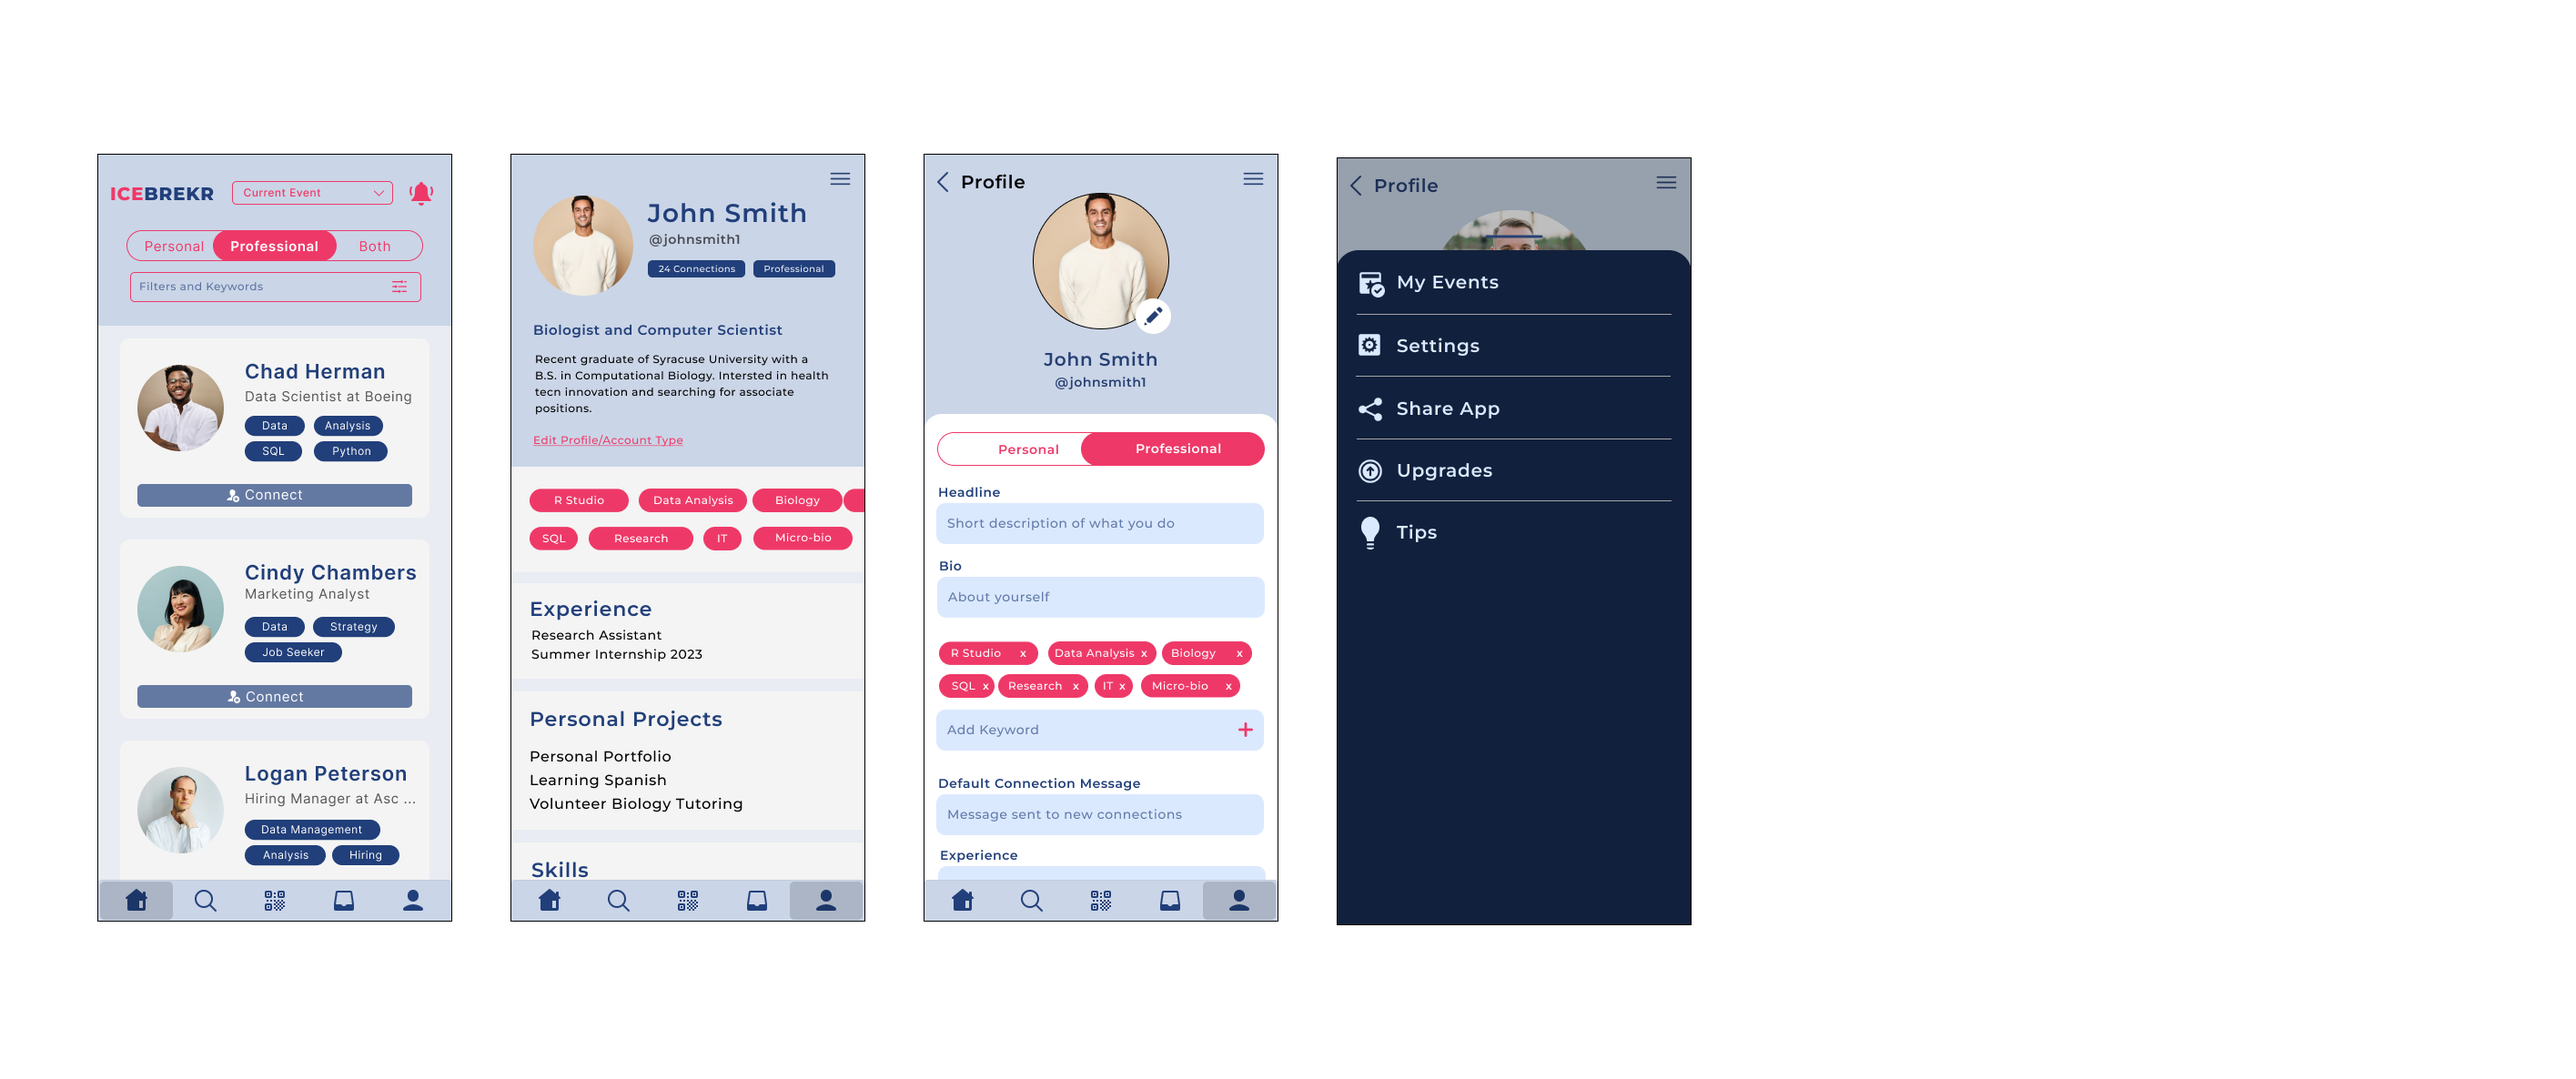
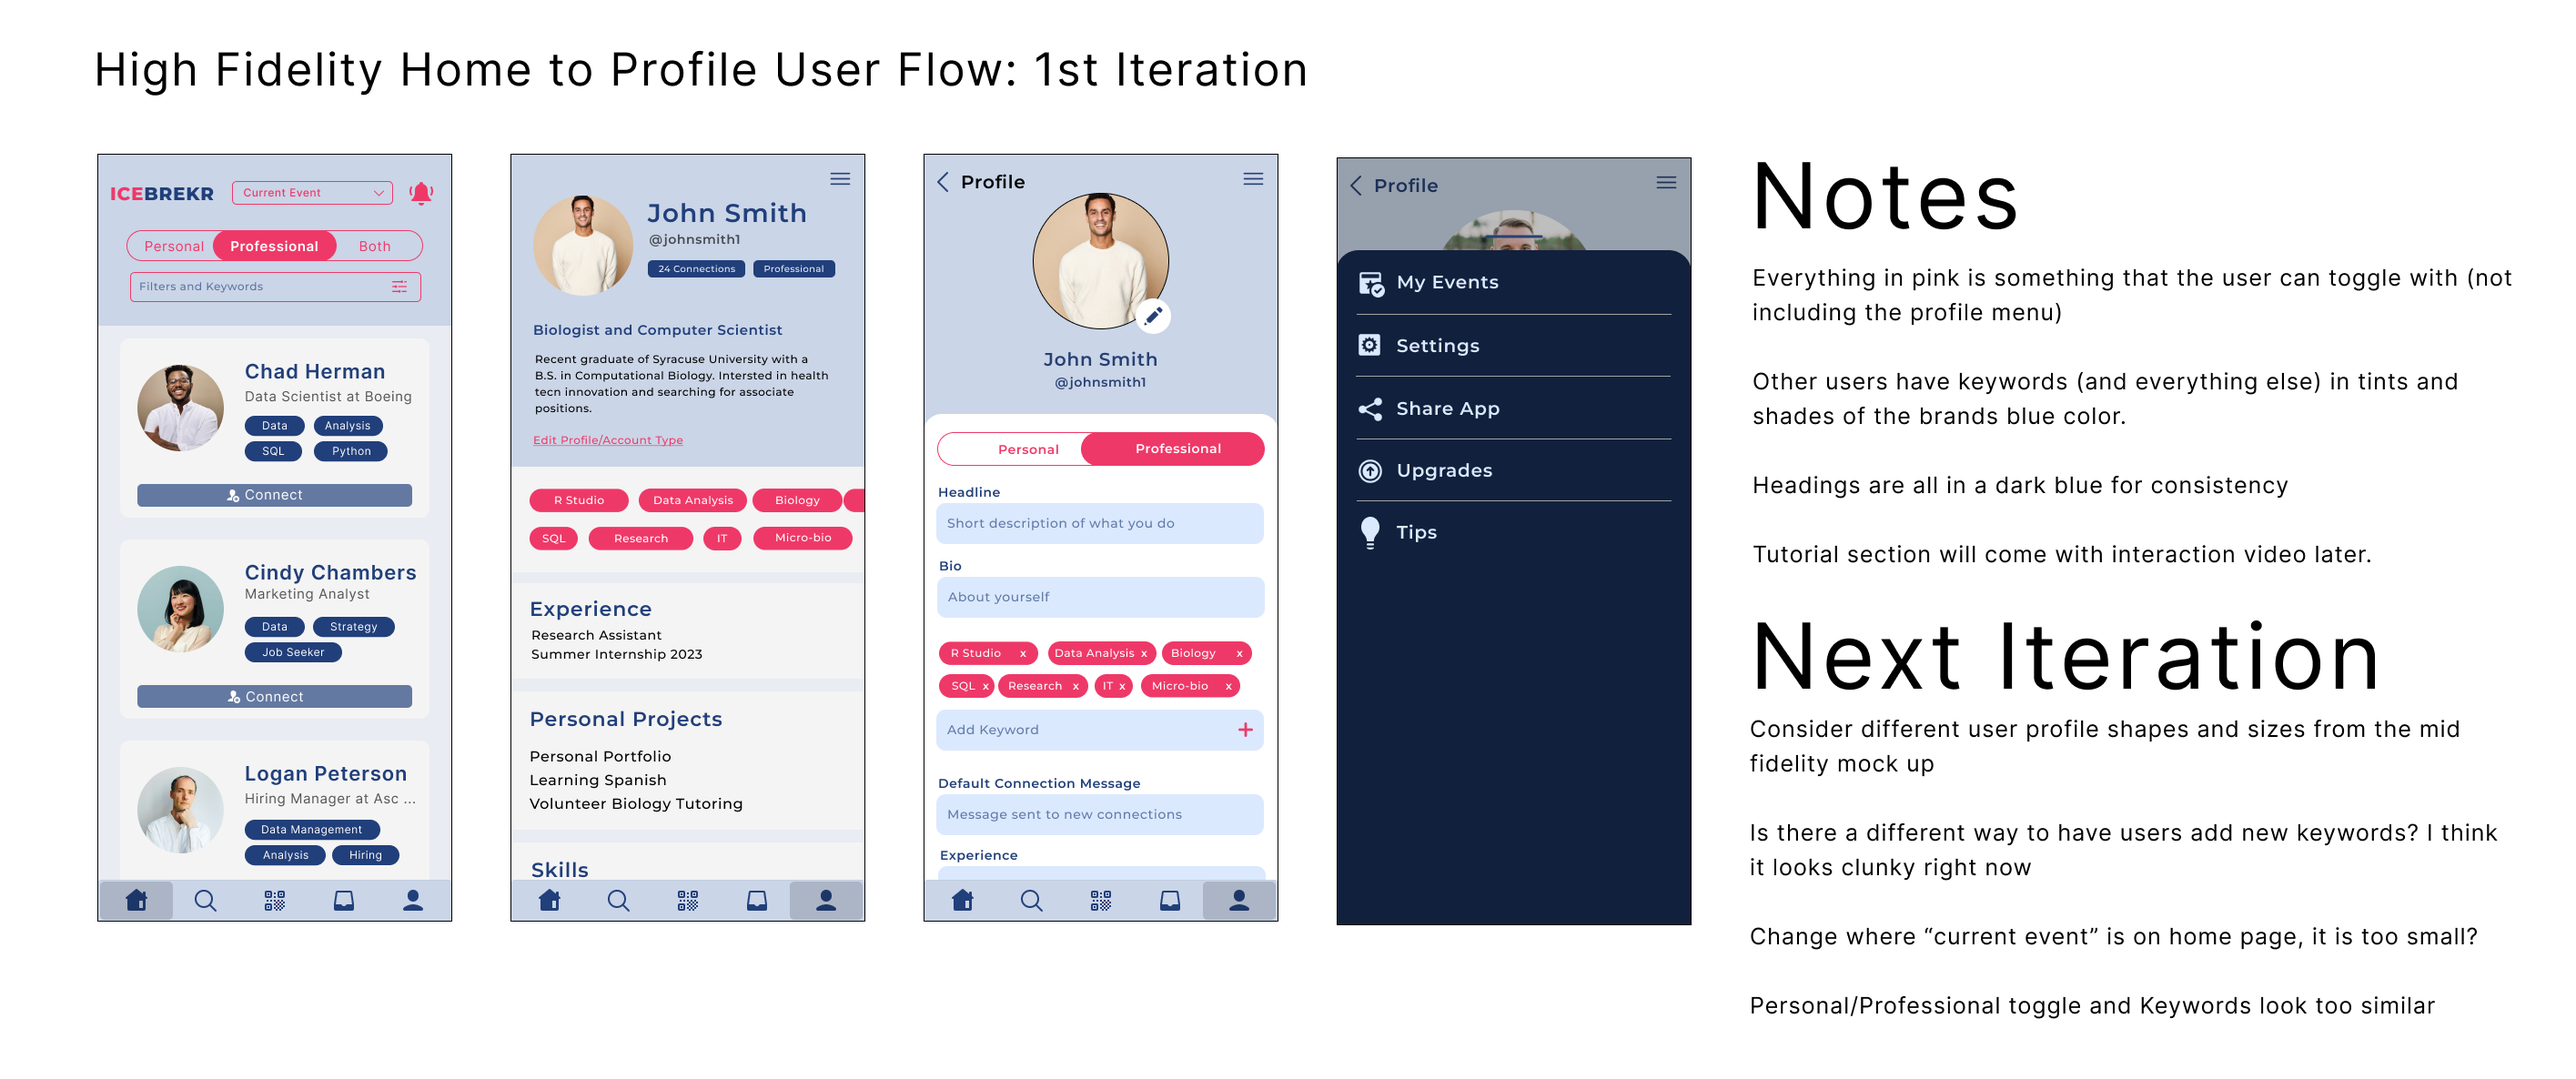
Finished adding highfid and homepag stuff

diff --git a/icebrekr.html b/icebrekr.html
@@ -71,7 +71,7 @@
                             certain questions and complete their profile.
                         </p>
                         </section>
-                        <a class="bigbutton" href="">Skip to Designs</a>
+                        <a class="bigbutton" href="#highfid">Skip to Designs</a>
                     </div>
                     <div class="col-3" >
                         <h3>Project Length</h3>
@@ -189,7 +189,7 @@
                                     <p>After completing the research, I reviewed the data and responses as I brainstormed insights. Based on the research the primary insights for this specific project are:</p>
                                     <ol>
                                         <li><h4><span class="yellow-highlight">Users want more direction</span></h4><p>Users want a simple and direct tutorial on how to use IceBrekr before having to answer questions about thier profile.</p> </li>
-                                        <li><h4><span class="yellow-highlight">IceBrekr's target audiences are job candidates and recruiters looking to fill positions</span></43> <p>While this is a networking app for professional and informal occasions, most users are using IceBrekr in expand their professional network - lots of candidates 
+                                        <li><h4><span class="yellow-highlight">IceBrekr's target audiences are job candidates and recruiters looking to fill positions</span></h4> <p>While this is a networking app for professional and informal occasions, most users are using IceBrekr in expand their professional network - lots of candidates 
                                             and recruiters (very wide range of people).</p>
                                         </li>
                                         <li><h4><span class="yellow-highlight">IceBrekr's competitive advantage is its speed, and the application must reflect that</span></h4><p>Processes and functions need to be quick. The draw of IceBrekr is that its a location-based real-time variation of LinkedIn. This means
@@ -224,8 +224,32 @@
                                     <img class="figma-flows" src="imgs/tutorialmidfid.png" alt="mid fidelity tutorial areas and profile set up">
                                 </div>
                             </div>
-                            <div class="high-fid">
+                            <div class="high-fid gap" id="highfid">
                                 <h1>High Fidelity Mock Ups</h1>
+                                <p>I completed the first iteration of the high fidelity designs in Figma. In many of my projects, 
+                                    <span class="yellow-highlight">Figma is also the easiest place to do user and usability testing as they can highlight elements, point out specifics, and move
+                                        things to where they think they should go. </span> I often add the next iteration notes to my high fidelity mock-ups to help me 
+                                    create a clear path to the next iterations. 
+                                </p>
+                                <div> 
+                                    <img class="figma-flows" src="imgs/HiFid Login Flow.png" alt="high fidelity login flow showing the steps of logging in">
+                                    <img class="figma-flows" src="imgs/TutorialHighFid.png" alt="high fidelity profile to home page flow showing individual steps">
+                                </div>
+                            </div>
+                            <div class="next-steps gap">
+                                <h1>Next Steps</h1>
+                                <p>Contrary to popular belief, the first iteration high fidelity mock-ups often are not the end of my projects. I continuously work on completed 
+                                    projects to keep them up to date on the latest UX principles and trends. <span class="yellow-highlight">Continuous improvement and the ability to translate feedback into actionable and visible changes 
+                                        is my main focus in design, as I am still learning. </span></p>
+                                        <h4>My next steps for this projct are:</h4>
+                                    <ol>
+                                        <li><p>Second and third iterations of the app, based on A/B testing, user testing, etc.</p></li>
+                                        <li><p>Considering changing the color scheme for accessibility purposes (like color blindness or regular blindess)</p></li>
+                                        <li><p>Add interation and a tutorial to the app (coming soon!)</p></li>
+                                        <li><p>Flesh out the home page more, and consider talking to the ICEBREKR about a "post" function for users</p></li>
+                                        <li><p>Button consistency, type hierarchy, and other UI elements that need work</p></li>
+                                    </ol>
+                                    <p>Thank you so much for looking into my ICEBREKR volunteer project. If you have any more questions, feel free to reach out via email, text, or LinkedIn.</p>
                             </div>
                         </div>
                     </div>
@@ -237,7 +261,10 @@
                 <div class="col-3">
                     <a href="index.html"><img src="imgs/logo.png" alt="my logo" id="logo"></a>
                     <br>
-                    <img src="imgs/linkedinwhite.png" alt="linkedin icon" class="social-icon">
+                    <a href="https://www.linkedin.com/in/maria-sekyi-3014191b5/" rel="noopener noreferrer" target="_blank">
+                        <img src="imgs/linkedinwhite.png" alt="linkedin icon" class="social-icon">
+                    </a>
+                    
                     <img src="imgs/email.png" alt="mail icon" class="social-icon">
                 </div>
                 

diff --git a/index.html b/index.html
@@ -52,39 +52,38 @@
            
             <div class="row"> 
                 <div class="col-8 learnwithme">
-                    <p class="learnwithme title">Continuous learning is my priority throughout my career, and I do that best through hands on 
+                    <p class="title">Continuous learning is my priority throughout my career, and I do that best through hands on 
                         projects. <br><br>Join me as I hone my UX research and design skills through contracted, 
-                        personal, and pro-Bono work. 
+                        personal, and pro-Bono work (as well as some coursera classes). 
                     </p>
                     
                 </div>
-                <div class="col" id="filler0">
-                    <img src="imgs/workflow.png" alt="workflow on figma">
+                <div class="col" id="learnpics">
+                    <img src="imgs/LearnWithMePics.png" alt="workflow on figma">
                 </div>
             </div>
             <div class="row justify-content-center " id="working-on">
                 <div class="col-8">
-                    <h2 class="heading">This February I'm Working On:</h2>
+                    <h2 class="heading">This March I'm Working On:</h2>
                     <p>Completing Google's Foundations of Data Analytics Course </p>
                     <p> User Flow improvement for TUNE tech (Coming Soon)</p>
                     <br><br>
-                    <a href="#project-section" class="projnav"> See My Finished Work</a>
+                    <a href="#project-section" class="projnav"> See My Finished Works</a>
                     
                 </div>
                
             </div>
             <div class="row"> 
-                <div class="col" id="filler1">
-                    
+                <div class="col-4 whatsuxpics"> 
+                    <img src="imgs/whatsux.png" alt="anthro stuff">
                 </div>
-                <div class="col-9 whatsux">
-                    <p class="title"> Studying anthropology equipped me with research methods that 
-                        seamlessly translate into the world of UX research.<br><br>The skills honed in 
-                        anthropology fieldwork easily adapt to user studies, helping me observe and 
-                        understand digital interactions.<br> Interview techniques and cultural sensitivity cultivated in anthropology prove useful in extracting meaningful insights and crafting user-centric designs in the UX realm.
-                    </p>
+                <div class="col-8 whatsux">
+                        <p class="title"> Studying anthropology equipped me with research methods that 
+                            seamlessly translate into the world of UX research.<br><br>The skills honed in 
+                            anthropology fieldwork easily adapt to user studies, helping me observe and 
+                            understand digital interactions.<br><br> Interview techniques and cultural sensitivity cultivated in anthropology prove useful in extracting meaningful insights and crafting user-centric designs in the UX realm.
+                        </p>
                 </div>
-                
             </div>
             <div class="row justify-content-center " id="project-section">
                 <div class="col-8">

diff --git a/index.css b/index.css
@@ -75,64 +75,56 @@
     background-color: #a3a3d6;
 
 }
-
 .learnwithme{
     background-color: #f7efe5;
-    padding: 3em 5em 3em 5em;
-    
+    padding: 10em 0em 10em 0em;
 }
-
 .learnwithme p{
-    width: 90%;
     font-size: 1.6em;
     color:#232B2B;
+    padding: 1em 2em 1em 1em;
+    margin-left:2em;
+    width: 85%;
+    z-index: 10;
+    border-left: 5px solid #D5A021;
+    border-bottom: 5px solid #D5A021;
+    
+}
+#learnpics{
+    background-color: #f7efe5;
+    display: flex;
+    align-items: center;
+    justify-content: center;
 }
 
 .whatsux{
     background-color:#f7efe5;
-    padding:5em 0 4em 0;
+    padding:8em 0 8em 0;
 }
-.whatsux h2, .whatsux p{
-    width: 80%;
-    /* margin-left:2em; */
-    color:#1c2020;
+.whatsuxpics{
+    background-color: #f7efe5;
 }
-.whatsux h2{
-    margin-top: 2em;
-    margin-left:2em;
+.whatsuxpics img{
+    height: 100%;
+    width:100%;
 }
 .whatsux p{
+    width: 85%;
+    color:#1c2020;
     font-size: 1.6em;
-    margin-left: 2.5em;
-}
-#filler0{
-    background-color: #D5A021;
-    display: flex;
-    align-items: center;
-    justify-content: center;
-}
-#filler1{
-    background-color: #a3a3d6;
-    display: flex;
-    align-items: center;
-    justify-content: center;
-}
-#filler0 img{
-    width:100%;
-    height:100%;
+    margin-left: 4em;
+    padding-top:1em;
+    padding-right:1em;
+    border-top: 5px solid #a3a3d6;
+    border-right: 5px solid #a3a3d6;
 }
 
-
-/* #filler0 a:link, #filler0 a:visited{
-    color:#f0ede6;
-} */
 .project a,.project a:visited{
     color: #f7efe5;
     text-decoration: none;
 }
 .project a:hover{
     color:#a3a3d6;
-
 }
 
 .project p{
@@ -222,7 +214,7 @@ footer .col-3{
     color: #1c2020;
     text-decoration: none;
 }
-#filler0 img{
+#learnpics img{
     border-radius: 3px;
     height: 80%;
     width:85%;

diff --git a/icebrekr.css b/icebrekr.css
@@ -194,6 +194,7 @@ h4, h2, h3{
 .brainstorming{
     display: flex;
     align-items: center;
+    
 }
 .brainstorming img{
     width: 30em;
